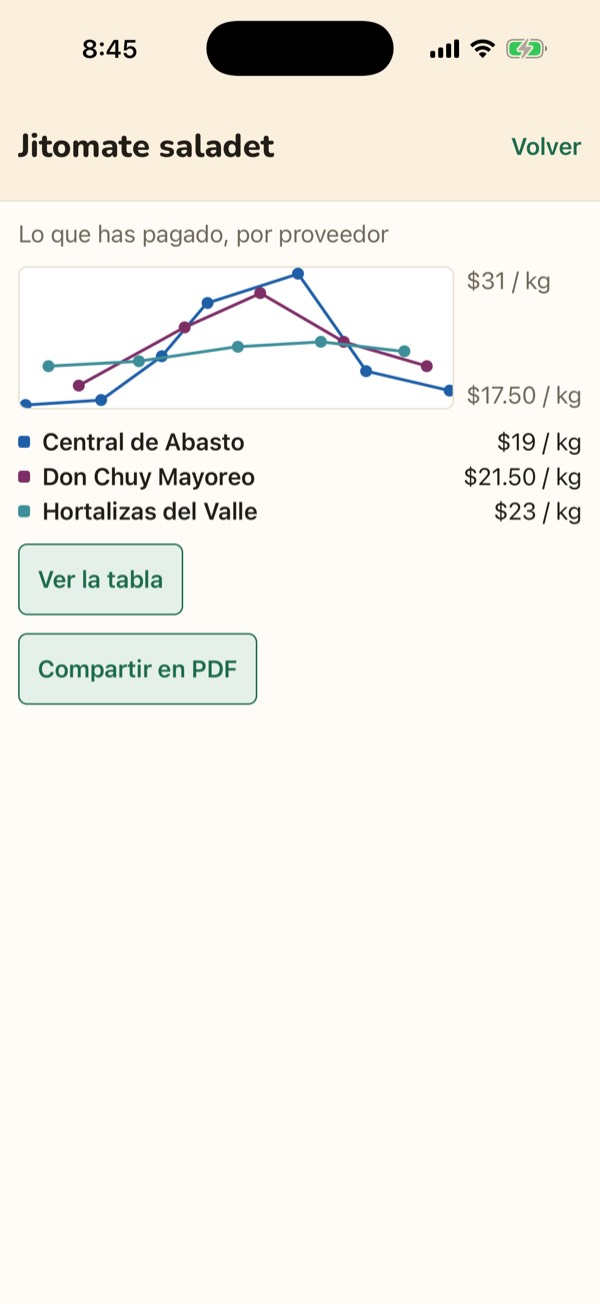
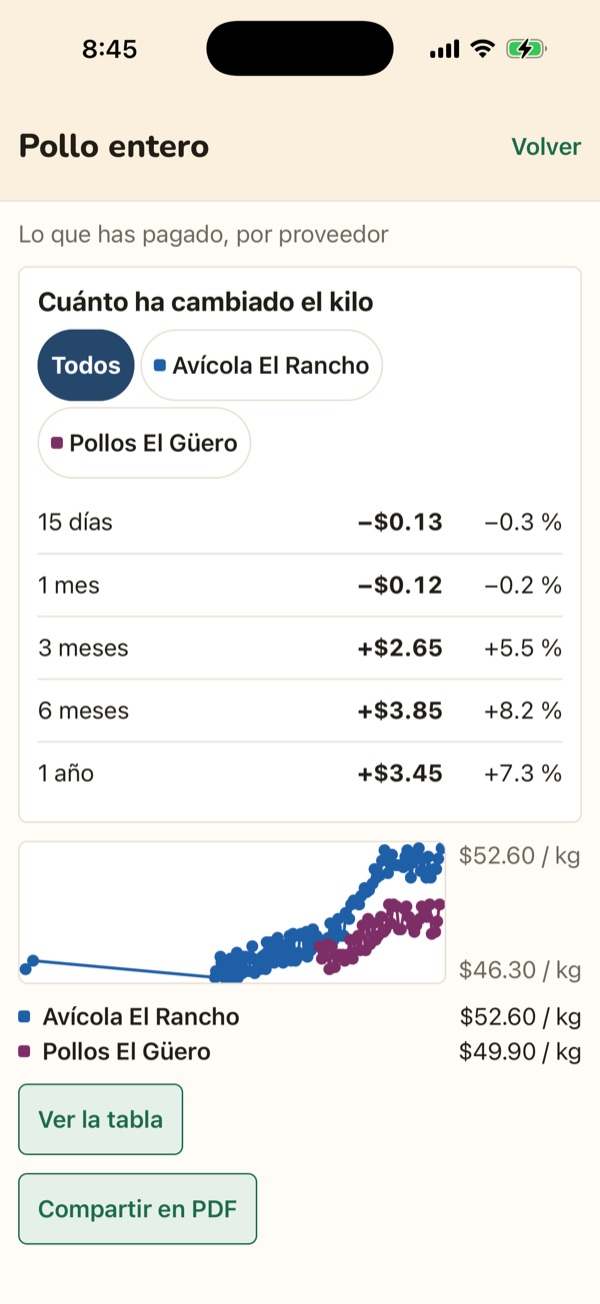
5R-t: Costos' week-average ends, the walkthrough's Costos picture retaken; the plan and the handbook
Claude-Session: https://claude.ai/code/session_01L4rDLo3mcmrcR2aPSSxK2p

diff --git a/app/src/app/recorrido.tsx b/app/src/app/recorrido.tsx
@@ -38,6 +38,10 @@ import { PALETTE } from '@/theme/palette';
 // ⚠ `merma.jpg` WAS RETAKEN AT `10.0a` (2026-10-27): the doors, Te lo compro's
 // among them, became Tirar — what Merma is for every role while it is paused.
 // Both Merma cards, the owner's and the Empleado's, show it.
+// ⚠ `costos.jpg` WAS RETAKEN AT `5R-t` (2026-11-23), when Costos gained
+// *Cuánto ha cambiado*: the same simulator at 8:45, halved to 600 × 1304, on
+// *Pollo entero* of an invented local pollería (*Pollería y Recaudería La Güera*,
+// `docs/runbooks/demo-polleria.sql` run on the local stack) — no real shop's data.
 //
 // ⚠⚠ WHAT NO CHECK CAN SEE — `R9`: whether six seconds a card is enough for her
 // to read, whether the finger on the Vender card reads as a hand, and whether a

diff --git a/docs/PLAN.md b/docs/PLAN.md
@@ -79,6 +79,15 @@ before** today (UTC), so a due-today row is never a false red on a timezone.
 ⚠ **The ticked rows (2026-09-20, -21, -27) and this block's notes moved 2026-09-29 to the same
 position-history archive.** A row leaves the table once its Done cell is written.
 
+▶ **2026-11-23, 19:20 UTC — `5R-t` BUILT, NOT MERGED: *CONOCE WERA TIENDA*'S TIMER FIXED AND A SWIPE BETWEEN CARDS; COSTOS' *CUÁNTO HA CAMBIADO EL KILO* — 15 DÍAS, 1 MES, 3, 6 MESES AND 1 AÑO, IN PESOS AND PERCENT, *TODOS* OR ONE SUPPLIER. WAITING FOR HIS LOOK (https://claude.ai/artifact/1TMfAcpAeSVu2empvQ4uXo); HIS YES MERGES IT AND SHIPS IT OVER THE AIR TO 1.2. `13.4` IS THE NEXT TASK, STILL HIS: PLAY'S ONE VISIT, AND HOW THE IPHONE'S 1.2 GETS BUILT.**
+**Asked** by him in `13.4`'s session, before uploading 1.2 (*"I want to make a few final changes to Wera Tienda, should we do them before Uploading the new version?"* — no: both are screens, so both go over the air and 1.2's upload need not wait); the Costos block walked through as five situations and drawn with him in chat — *Todos* first, then a button per supplier (his question: *"So she switches the suppliers to see the numbers from each one"*), then the other lines faded (his: *"Perhaps one shaded when she clicks over the other?"*) — and *"We'll proceed like that"*, then *"Proceed"*, here.
+**The estimate, written first:** `M` in all — the timer `S` (a known React Native ordering, one handler instead of three), the swipe `S`, Costos `M` (the arithmetic and its tests, a block, buttons, a faded line); one sitting; nothing native (`PanResponder` and `Animated` are React Native's own), no migration (`purchase_line` is already read whole, every delivery of the product).
+**The timer's cause, measured:** the card was a `Pressable` that paused on *press in*, resumed on *press out* and moved on *press*. React Native fires a tap shorter than 130 ms as *press* first and *press out* 130 ms later, so a quick tap moved to the next card and then resumed THAT card from the old card's place. On the emulator, `main`'s code: a quick tap at 57 %, 76 %, 81 % left the next card at **75 %, 79 %, 86 %**; the branch's, at 51 %, 60 %, 55 %, left it at **2 %, 1 %, 15 %** (the bar read off each screenshot by a script). One handler now decides as the finger lifts (`gestoDe`, `destino` in `@/navigation/recorrido`, 7 new tests): a swipe left or right moves a card, a quick tap moves as before, a hold resumes where it stopped; the timer restarts only when the card changes, so the roster's read landing mid-card no longer restarts it. Seen on the emulator: swipes both ways (each card from 0 %), a hold stopping the bar at 46 % for 2.5 s and running on after, a tap on the left third going back, the card following the finger mid-swipe. On the iPhone the stack's edge swipe is off on this screen (`gestureEnabled: false`), so a right swipe goes back a card instead of closing it. ⚠ **Swiping on an iPhone is not measured** — this Mac cannot touch the Simulator; there the story opened by itself and advanced (the bar read the same way).
+**Costos, and the one call made on his behalf:** built first with Precios' rule (the last delivery now against the last one on or before the day the window opens from), the demo pollería showed *Todos* reading **+6.3 % in 15 días and +0.2 % in 1 mes** for chicken whose two suppliers bring it on alternate days $2.70 apart — the weekday, not a price. **Each end is now the average of the deliveries in the 7 days up to its last one** (`weekPrice`); *now* never reaches back into *then*. The same chicken reads −0.3 %, −0.2 %, +5.5 %, +8.2 %, +7.3 %. A new test holds two suppliers taking turns at steady prices to *Sin cambio* on four different days, and fails under the first rule. Precios is untouched (its windows and its single-day rule), its calendar shared (`monthsBefore`, `daysBefore`, `tenthsOf`, moved out of `asOfDay` and `changeOf` with its 52 tests unchanged and green).
+**Verified:** Vitest **2,441 tests in 92 files** (22 new: 7 for the walkthrough's touches, 15 for the windows, the five situations, the week's average and when the block and its buttons show); `tsc --noEmit` clean; the conventions gate 18 of 18 over 181 source and 92 test files; `wera-runtime.sh` — iOS `4f29fdaa`, Android `b2796f98`, 1.2's, unchanged. **Seen** on a debug build of the branch on the emulator and a Release build on the iPhone 17 Simulator, both against the local stack: the demo pollería (`docs/runbooks/demo-polleria.sql` run there, topped up to today, plus two deliveries of a year ago so *1 año* has a figure): *Todos*, each supplier picked, one supplier (no buttons), *Letra grande*, the dashes and their sentence; the same figures on both platforms.
+**Decided on his behalf:** (a) **each end a week's average** — reversing it is one function and its tests, over the air; (b) a sign and one decimal, no colour (Números' *Lo que más subió* says it so); (c) the heading in sentence case, naming the unit (*el kilo*), as `11.6`'s restyle writes headings; (d) the walkthrough's Costos picture retaken (`costos.jpg`, the invented pollería at 8:45, 600 × 1304) — it showed the screen without the block. Each is an edit; nothing reaches the database.
+**Left as found:** the emulator's Wera test build (pulled before, reinstalled after; its sign-in lost); the iPhone 17 Simulator holds this branch's Release build, signed in to the local pollería; `~/RetailerToolDev/wera-ios-sim-worktree` detached at this branch's first commit (`bde9ca2`, from `11.5-i`'s `f5cdf9d`). The local stack: the pollería topped up, two old deliveries added, its owner's password set (local only).
+
 ▶ **2026-11-23, 04:00 UTC — `13.4`: 1.2.0 MERGED (`a1d7012`); ANDROID'S STORE BUILD MADE FROM IT AND READ INSIDE — VERSION CODE 9, *WERA TIENDA* UNDER THE ICON; THE IPHONE'S REFUSED BY EAS: THE FREE PLAN'S IOS BUILDS FOR NOVEMBER ARE USED UP, BACK ON 2026-12-01. PLAY'S ONE VISIT IS HIS NOW; HOW THE IPHONE'S GETS BUILT IS HIS WORD. `13.4` STAYS THE NEXT TASK.**
 **Merged:** pull request 657 (`a1d7012`) — `main` unmoved since the branch was cut, so the run read is the merged code: the 2 jobs its paths fire (`app.yml`), both `pass` and no step skipped, each read by name on `6227403`: *Runtime* iOS `4f29fdaa`, Android `b2796f98` and its falsifier; `tsc` 0 errors; Vitest **2,419 tests in 92 files**; the conventions gate 18 of 18 over 181 source and 92 test files, its falsifier *has teeth*; the update runbook's rehearsal 28 cases and 13 of 13 broken copies; the plan 11 of 11, the handbook 5 of 5 and its 13 fixtures.
 **Built** (EAS, `production`, from `a1d7012`, one upload of 33.6 MB): **Android `e5de81b2`**, finished 03:44 UTC. **Read inside, not off `app.json`:** `mx.wera.app` 1.2.0, version code 9, API 36 / 24; `string/app_name` ***Wera Tienda***; the six permissions of 1.0 and 1.1, no `uses-feature`; `base/assets/fingerprint` `b2796f98` — `wera-runtime.sh`'s, computed before the build existed; channel `production`, checked on every launch; all 25 `arm64-v8a` libraries at 16 KB pages; the bundle holds the hosted server once, no `piloto-1`, and *Wera Tienda* 7 times — its `localhost` (2) and `127.0.0.1` (1) are library text, the same counts in 1.1's bundle (read in context: `localhost:9999`, a font asset's development path, *SHA-512* beside *7.0.0.1…*). Kept: `~/RetailerToolDev/wera-builds/wera-tienda-1.2.0-9.aab` (SHA-256 `f9b334ad…`, equal to the download).
@@ -1361,6 +1370,7 @@ also says something true: §2.11 puts the release path *"running in parallel fro
 | **5R-q** | **Lane Wera — the two store listings' look, before Wera is promoted in the barrio.** Asked for by him on 2026-11-18, in App Store Connect with 1.1 in hand: *"I'm looking at the description of the app in our listings and the styling of the screenshots, we also don't have a Header nor any other styling of the listing"* — and, told it could wait for 1.1, *"Yes, add the row"*. It takes over what `5R-d-iv-c` left: the descriptions read again with him. **What it makes:** (1) **styled screenshots** — 1.1's screens, taken as `store/README.md`'s recipe takes them (an invented shop, never a real one's data), inside a designed frame with a short line each, for Play (1080 × 1920 — Play refuses a long side more than twice the short) and for Apple's three iPhone sizes (`store/app-store/`); (2) **the words** — both stores' descriptions, and Apple's subtitle, promotional text and keywords, read again with him (`python3 store/limits.py` holds every limit); (3) **Play's feature graphic** (1024 × 500) redrawn to match, if he wants it — Play has one, the mark and *Wera* in rust on cream (`store/google-play/grafico.html`). ⚠ **The App Store has no header image**: its page opens on the icon, the name and the subtitle, then the screenshots, or an optional preview video. **His look first:** two or three styles shown on real screens before any is made at every size. **Where each goes.** **Play:** the listing changes with no release, and Google reviews the change (Play Console help, *Control when app changes are reviewed and published*: store listing updates wait in *Publishing overview* until sent; a few hours to seven days). **Apple:** promotional text changes at any time (Apple's help, *Platform version information*); the description, keywords and screenshots are believed to change only on a version being prepared — ⚠ **not read on Apple's page**: on 2026-11-18 *Required, localizable, and editable properties* did not load in full, so read it first, or look in the console (on a live version those boxes are greyed out). If they are locked, they ride on **Wera 1.1.1**, a build with only `version` raised: `app/fingerprint.config.js` skips the version, so the runtime stays 1.1's (measured in `5R-o`) and every phone keeps taking updates; for a new version Apple lists only builds uploaded since the last release, so 1.1's build cannot be reused, and a new version opens only once 1.1 is *Ready for Distribution* (Apple's help, *Create a new version*, *Choose a build to submit*). **His hands:** Play Console's listing and App Store Connect's version page, the words pasted from `store/` | L — his look, then his hands in both consoles | `5R-p` — the screenshots show 1.1 as a fresh install opens it, Merma's *Próximamente* on, and Apple opens a new version only once 1.1 is live |
 | **5R-r** | ✅ **DONE 2026-11-20 — BUILT, AND PUBLISHED AT HIS WORD (*"Publícalo"*, 2026-11-20)** (the status entry). **Lane Wera — the new tu-wera.com, in the words he approved on 2026-11-19.** A page per app — `tienda/`, `para-cocinas/` (never `/cocina/`, each kitchen's address since `10.9c`) and `itacate/` —, his page (`bernardo/`, *usted*, his WhatsApp from the repository secrets `WHATSAPP` and `WHATSAPP_TEXTO`, never a file), *Tus datos, en claro* (`datos/`, four certainties, each standing on the avisos) and *Ayuda* (`ayuda/`, the old home page's help, moved); the home page the three apps, with the help block the stores' support URL needs. The Wera mark in every header, titles in Nunito ExtraBold, each app's colour; the legal pages' text untouched. **It closes `5R-m`'s site half**, and *inventario* leaves the site's own pages. `site/README.md` holds every page, the four placeholders and what each new claim stands on | `M` | His approved words (2026-11-19); the two secrets |
 | **5R-s** | ✅ **DONE 2026-11-20 — AND ON TU-WERA.COM SINCE THAT NIGHT, AT HIS WORD (PULL REQUEST 621)** (the status entry). **Lane Wera — tu-wera.com drawn by hand, and its words.** Asked by him on 2026-11-20: the site looked made by an AI; he wanted it handmade, with more movement and the same organisation, and its spelling and grammar reviewed. Three proposals drawn on his own home page (https://claude.ai/artifact/VAsdXHbX2dkAVg9c5TuJic); he took the recommended one, *A · Sello* — the counter's paperwork. Then his ruling on *en palabras de mostrador* (*"un poco denigrante"*): every sentence like it found and rewritten. `site/estilo.css` rewritten, the seven own pages' markup, Archivo and Mansalva in `letras/`, the spelling fixes on every page; the legal pages corrected in form only, their markup untouched. `site/README.md` holds the pieces and the new rule | `M` | His pick and his ruling (2026-11-20) |
+| **5R-t** | ▶ **BUILT 2026-11-23 — WAITING FOR HIS LOOK** (the status entry of 19:20 UTC that day; https://claude.ai/artifact/1TMfAcpAeSVu2empvQ4uXo): his yes merges it and ships it over the air to the 1.2 builds (`docs/runbooks/ship-an-update.sh production`); `13.4`'s store builds carry none of it, and none needs to. **Lane Wera — two changes he asked for on 2026-11-23, before 1.2's upload** (*"I want to make a few final changes to Wera Tienda"*): (1) **_Conoce Wera Tienda_** — *"The timer for each slide is behaving strange, it is not switching and reseting well after a user moves from one slide to the other. Also, we should allow the user to move by swiping the slides, not just by tapping."* (2) **Costos** — *"someone should be able to see easily how much a given product has increased in price on a 15 day, 1 month, 3 month, 6 month and 1 year basis. Nominal and percentage."* Drawn with him the same day (his *"We'll proceed like that"*): a block at the top of Costos, *Cuánto ha cambiado el kilo*, five rows of pesos and percent; *Todos* first and picked when the screen opens (what she pays, whoever sold it); a button per supplier when more than one has delivered, reading that supplier's deliveries alone and fading the other lines on the chart and their rows in the list (his idea: *"one shaded when she clicks over the other"*); the daily table and the PDF unchanged. ⚠ **Each end is a week's average of deliveries, the session's call after the emulator showed two alternating suppliers reading as a price change** (the status entry). Nothing native, no migration: the runtime is 1.2's (`wera-runtime.sh`). | `M` | His look at the page (the design is his of 2026-11-23; the week's average is the session's, flagged on the page) |
 | **5R-h** | ✅ **DONE 2026-10-09 — the link on *Entrar* and `docs/runbooks/reset-a-password.sh`; see the status log.** **Second in the order set 2026-10-09.** ***¿Olvidaste tu contraseña?* — by WhatsApp to the owner, reset by hand.** His ruling: a link on *Entrar* opens WhatsApp (`https://wa.me/52<number>` with a prefilled message naming the email), falling back to the web if WhatsApp is not installed. ⚠ **His number must NOT enter this public repository**: read it from `EXPO_PUBLIC_SUPPORT_WHATSAPP` in the gitignored `app/.env.local` (and an EAS secret once `5R-b` lands); the session's private memory holds it. Hide the link when the variable is unset. **The back-end half is his**: a script that sets a temporary password for one email on the hosted project and refuses any email not found. Writes to the hosted database are gated, so he runs it. The handbook says how, and that he confirms who is asking before he resets anything | `S` | Nothing — ruled 2026-10-09 |
 | **5R-i** | ⏸ **PARKED BY THE OWNER 2026-10-09 — returns on his word.** **Phone verification** (SMS or WhatsApp OTP through Supabase Auth's phone provider; costs money per message). Asking existing users to verify later is a prompt, not a migration. ⚠ The number lives with the login and **is erased by `5R-c`'s deletion; the tombstone never keeps it** (ruled 2026-10-09) | — | ⏸ Parked |
 | **5R-j** | ⏸ **PARKED BY THE OWNER 2026-10-09 — *"sometime in the future we'll need to perform verification, for now we're fine."*** **Email verification, a real mail provider and a self-service reset.** Turning `mailer_autoconfirm` off strands every unconfirmed account unless mail works, and the built-in sender allows about 2 emails an hour, so it needs custom SMTP first. The self-service *reset password* email belongs here and would replace `5R-h`'s WhatsApp path | — | ⏸ Parked |

diff --git a/docs/HANDBOOK.md b/docs/HANDBOOK.md
@@ -748,6 +748,7 @@ after you have tried it.
 | **5R-q** | **The two store listings' look** — styled screenshots for both stores, the descriptions read again with you, and Play's feature graphic redrawn if you want it. The App Store has no header image: its page opens on the icon, the name and the subtitle, then the screenshots | After `5R-p`, before you promote Wera in the barrio. You pick a style on real screens first. Play's listing changes with no new version; Apple's, if Apple ties it to a version, goes up with a Wera 1.1.1 that changes nothing on any phone |
 | **5R-r** | **The new tu-wera.com** — in the words you approved on 19 November: a page for each app (*Tienda*, *Cocinas* at `/para-cocinas/`, *Itacate*), your page (*Bernardo Serafin*, with your WhatsApp), *Tus datos, en claro* and *Ayuda*; the home page with the three apps and the help the stores link to | ✅ **Done 20 November — built, and published at your word** (*"Publícalo"*, 20 November), after your look at every page and your review of its words. Your WhatsApp number is in no file: GitHub keeps it as two secrets (*Putting tu-wera.com up*), set by the session. Two things it found and left for you: Wera's aviso still says *inventario*, and a kitchen's address page (`/cocina/`) still links Itacate's Google Play listing |
 | **5R-s** | **tu-wera.com, drawn by hand** — the look you picked on 20 November (*A · Sello*: the counter's paperwork — tickets, rubber stamps in each app's colour, a notebook page, an envelope, kraft at the foot, and things that move), its spelling and grammar fixed on every page, and the sentences that talked down rewritten at your word | ✅ **Done 20 November — on tu-wera.com since that night, at your word**. What to look at: every page, on your phone. Your deck, your one-page handout, your brand document and your meeting kit say the same new line since that evening: *les ayudo a decidir con sus propios números* |
+| **5R-t** | **Two last changes to Wera Tienda, over the air** — *Conoce Wera Tienda*'s timer fixed (a quick tap left the next card's bar half full, so it ended early) and a swipe between its cards; and in Costos, *Cuánto ha cambiado el kilo*: 15 días, 1 mes, 3 y 6 meses and 1 año, in pesos and percent, for *Todos* or for one supplier, with the other suppliers' lines fading | ▶ **Built 23 November, not merged — your look first**: https://claude.ai/artifact/1TMfAcpAeSVu2empvQ4uXo. One thing differs from what we drew: each end is the average of that week's deliveries, because two suppliers taking turns read as a price change. Your yes merges it and sends it over the air; a phone sees it once it has Wera Tienda 1.2 |
 | **11.1** | **The look, as a reference** — colours, corners, type and headings on one design-system page | ✅ **Done 21 November** — https://claude.ai/artifact/WhCNyqR8PhzkFom7gavTX5. Nothing in the apps changed. What to look at: the page, the *Inicio* card first (Wera at both letter sizes), then its last section: five calls, each with my recommendation — the big number's cut, the headings' face, the header on the grey, Comprar's and Merma's tinted rooms, and two inks made one step darker so they stay legible on the grey. You settle them with Archivo or Nunito at `11.5` |
 | **11.2** | **The objects and their motion** — the sheet, the ticket, the stamp and the tag; a stamp landing, a stub tearing, a receipt coming out, a total rolling like a register | ✅ **Done 21 November** — on the same page, https://claude.ai/artifact/WhCNyqR8PhzkFom7gavTX5, its *Objetos* and *Movimiento* cards. Nothing in the apps changed. What to look at: the *Movimiento* card first — press each *Play*: a stamp landing on her card, the stub tearing as *Entregado* lands, *Lo último* printing a line, the total rolling — then the *Objetos* cards, and four more calls at the page's end, each with my recommendation: a word stamp as a rectangle, the counter's paper, the total's wheels one after another, and the Wera cow in her card's stamps. You settle them at `11.5` |
 | **11.3** | **The drawn icons** — the apps' icons redrawn in the trade drawings' line, as one font; the most-seen first, for your look | ✂ **Split on 21 November** into the two rows below, as planned: the apps draw 113 different icons, too many for one sitting, and drawing the less-seen 80 before you have judged the line could waste every one |
